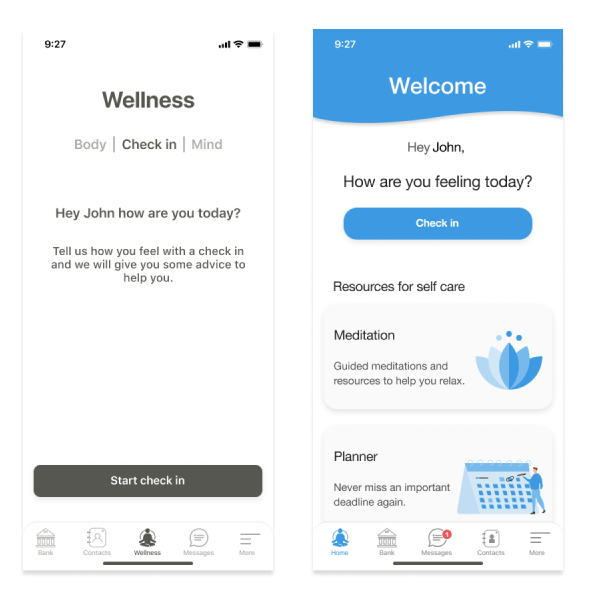
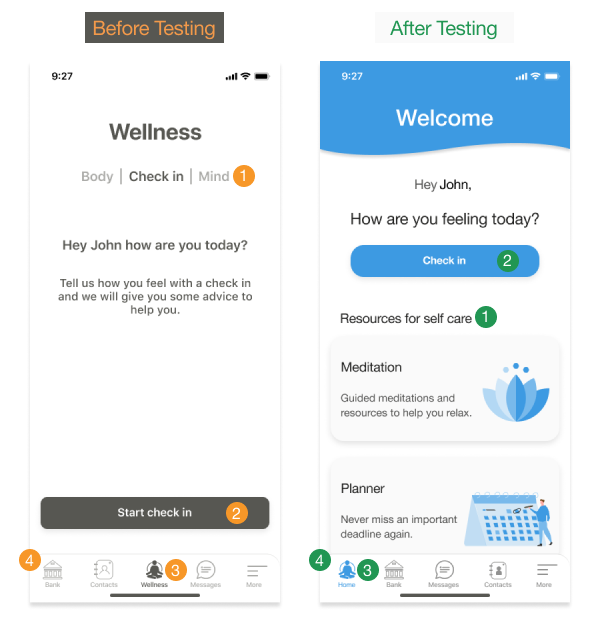
updating usability tests

diff --git a/solace.html b/solace.html
@@ -611,21 +611,21 @@ decided on at this stage, considering appropriate branding colour, logo and typo
                        <img src="assets/images/solace_test1.png" style="background-color:#FFF; " class="img-responsive" alt="welcome usability test">
                       </div>
                       <div class="col-xs-12 col-sm-12 col-md-6 col-lg-6 image-padding ">
-                      <ul class="portfolio-detail-body image-padding">
+                      <ol class="portfolio-detail-body image-padding">
                         <li>The way the content on this screen was being presented was changed as users were not seeing the sections on 'Body' and 'Mind' during the 
                         usability tests. 
                         Cards were introduced instead to display this content under the check in button.</li>
                          <p></p>
-                         <li>The check in button was moved to the top of the screen to allow space for the cards containing content on wellness that are now below this.
+                         <li>The check in button was moved to the top of the screen to allow space for the wellness cards that are now displayed below this button.
                         </li>
                          <p></p>
-                        <li>The main navigation elements were changed - the 'Wellness' label was changed to 'Home' and this icon was moved to the left of the navigation menu,
-                        as it is the most important navigation icon and users read left to right.
+                        <li>The main navigation elements were updated. The 'Wellness' label was changed to 'Home', and the icon was moved to be the first icon on the navigation menu,
+                        as it is the most important navigation icon and users read from left to right.
                         </li>
                          <p></p>
                         <li>The navigation icons are ordered by importance from left to right - 'Home', 'Bank', 'Messages', 'Contacts', 'More'.
                         </li>
-                     </ul>
+                     </ol>
                     </div>  
                       
                       </div>
@@ -646,15 +646,17 @@ decided on at this stage, considering appropriate branding colour, logo and typo
                        <img src="assets/images/solace_test2.png" style="background-color:#FFF; " class="img-responsive" alt="welcome usability test">
                       </div>
                       <div class="col-xs-12 col-sm-12 col-md-6 col-lg-6 image-padding ">
-                      <ul class="portfolio-detail-body image-padding">
+                      <ol class="portfolio-detail-body image-padding">
                         <li>Important feedback from users on this screen was that they were concerned about what would happen if they put a pause on a bill.
-                       A link was added that takes the user to a separate screen that displays information on the agreement between the user, bank and creditor.</li>
+                       A text link was added that takes the user to a separate screen that displays information on the agreement between the user, bank and creditor.</li>
                        <p></p>
-                         <li>The label on the button has been updated to clearly show what the action will be. When the user clicks on the button they will be taken to their direct debits.
+                         <li>The label on the button has been updated to clearly show what the action will be, when the user clicks on the button they will be taken to their direct debits.
                         </li>
                         <li>The buttons have also been rounded to make them more modern and promote the feeling of being safe, friendly, and approachable.
                         </li>
-                     </ul>
+                         <li>The tertiary button has been updated.
+                        </li>
+                     </ol>
                     </div>  
                       
                       </div>
